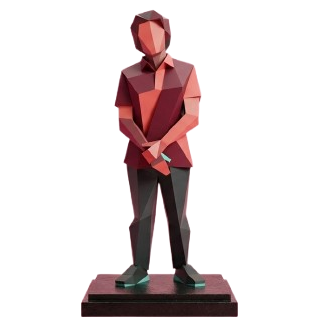
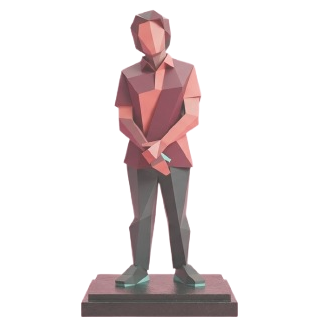
Redução do tamanho do totem

Changed region(s): [[0.2462, 0.0308, 0.7385, 0.9846]]

diff --git a/codigo/telas/inicial.c b/codigo/telas/inicial.c
@@ -123,7 +123,9 @@ void desenhar_inicial(
         return;
     }
 
-    al_draw_bitmap(totem, -65, ALTURA - 325, 0);
+    al_draw_scaled_bitmap(
+        totem, 0, 0, 325, 325, -20, ALTURA - 160, 150, 150, 0
+    );
 
     desenhar_botao(
         LARGURA / 2 + 230,